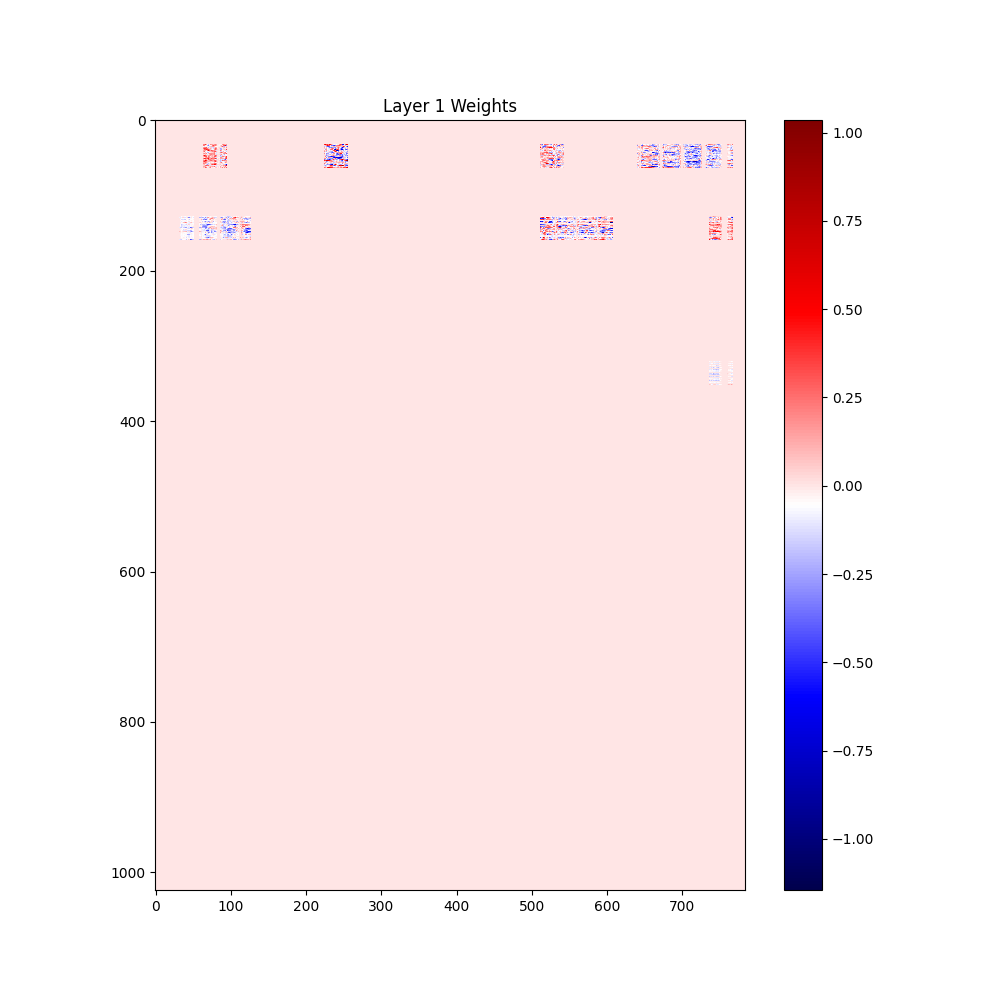
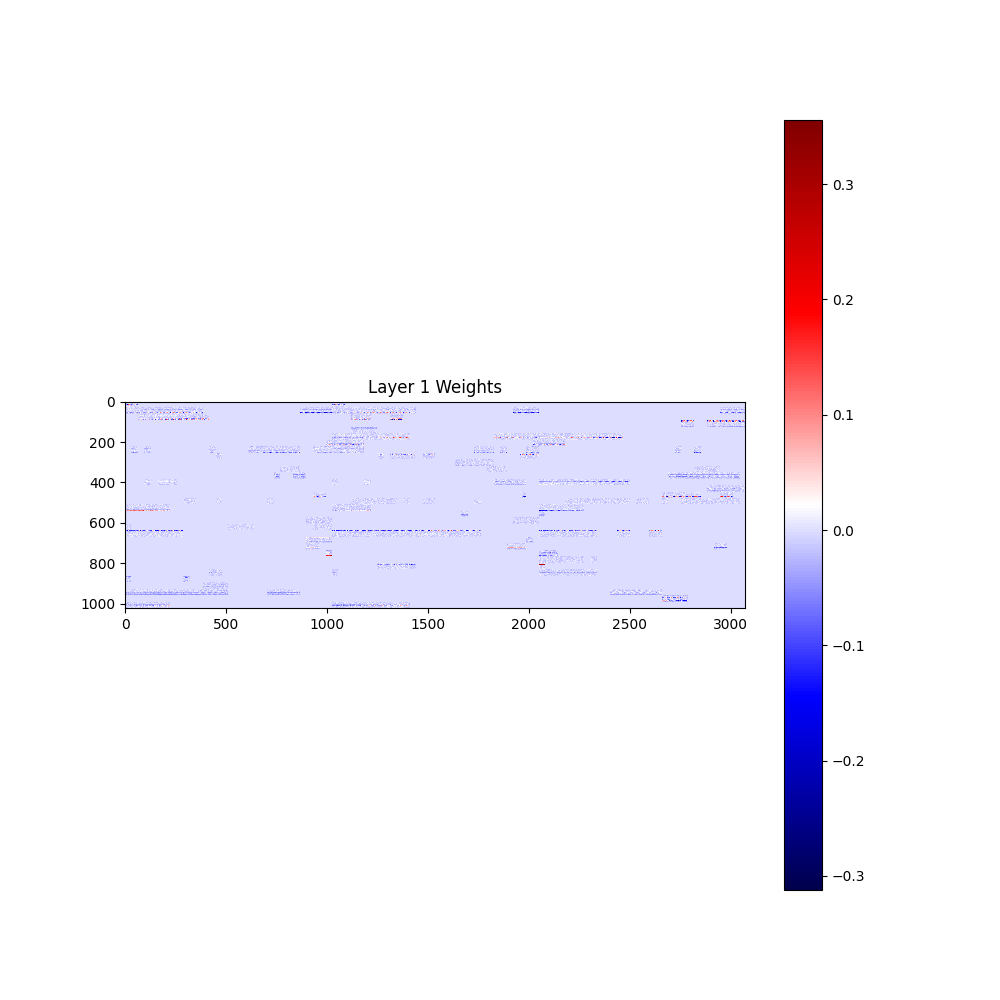
cifar

diff --git a/train_theta.py b/train_theta.py
@@ -24,16 +24,16 @@ start_itr = 1000  # Start iteration
 ramp_itr = 2000  # Ramp iteration
 end_itr = 3000  # End iteration
 
-print("Loading MNIST dataset...")
-# MNIST dataset
-train_dataset = datasets.MNIST(root='./data',
-                             train=True,
-                             transform=transforms.ToTensor(),
-                             download=True)
+print("Loading CIFAR-10 dataset...")
+# CIFAR-10 dataset
+train_dataset = datasets.CIFAR10(root='./data',
+                                train=True,
+                                transform=transforms.ToTensor(),
+                                download=True)
 
-test_dataset = datasets.MNIST(root='./data',
-                            train=False,
-                            transform=transforms.ToTensor())
+test_dataset = datasets.CIFAR10(root='./data',
+                               train=False,
+                               transform=transforms.ToTensor())
 
 print("Creating data loaders...")
 # Data loader
@@ -47,7 +47,7 @@ test_loader = DataLoader(dataset=test_dataset,
 
 # Train model with pruning
 print("\n=== Starting training with pruning ===")
-model = MLP(pruning_percent=.98, start_itr=2000)
+model = MLP(pruning_percent=.90, start_itr=2000)
 print("Created pruning model")
 
 # Loss and optimizer
@@ -76,7 +76,8 @@ for epoch in range(num_epochs):
         if (i+1) % 100 == 0:
             print(f'Training - Epoch [{epoch+1}/{num_epochs}], '
                   f'Step [{i+1}/{total_step}], '
-                  f'Loss: {loss.item():.4f}')
+                  f'Loss: {loss.item():.4f}, '
+                  f'Theta: {model.theta:.4f}')
 
     # Test the model
     print("\nEvaluating model...")

diff --git a/models/sparse_mlp.py b/models/sparse_mlp.py
@@ -1,4 +1,5 @@
 import torch.nn as nn
+import math
 from torchinfo import summary
 
 class MLP(nn.Module):
@@ -7,9 +8,10 @@ class MLP(nn.Module):
         self.pruning_percent = pruning_percent
         self.start_itr = start_itr
         self.current_itr = 0
+        self.theta = 0.0
 
         self.flatten = nn.Flatten()
-        self.fc1 = nn.Linear(28 * 28, 1024)
+        self.fc1 = nn.Linear(32 * 32 * 3, 1024)
         self.fc2 = nn.Linear(1024, 512)
         self.fc3 = nn.Linear(512, 10)
         self.relu = nn.ReLU()
@@ -21,6 +23,10 @@ class MLP(nn.Module):
         """Update current iteration and apply pruning if needed"""
         self.current_itr += 1
         if self.start_itr <= self.current_itr:
+            # Calculate exponential growth factor
+            progress = (self.current_itr - self.start_itr) / 5000  # Assume 1000 iterations for full growth
+            current_theta = self.pruning_percent * (1 - math.exp(-5 * progress))  # -5 controls curve steepness
+            self.theta = max(0, min(current_theta, self.pruning_percent))  # Clamp between 0 and pruning_percent
             self.apply_threshold()
 
     def apply_threshold(self):
@@ -50,7 +56,7 @@ class MLP(nn.Module):
         # Calculate cutoff value based on percentile
         if block_sums:
             sorted_sums = sorted(block_sums)
-            cutoff_idx = int(len(sorted_sums) * self.pruning_percent)
+            cutoff_idx = int(len(sorted_sums) * self.theta)  # Use current theta instead of pruning_percent
             cutoff_value = sorted_sums[cutoff_idx]
 
             # Zero out blocks below cutoff
